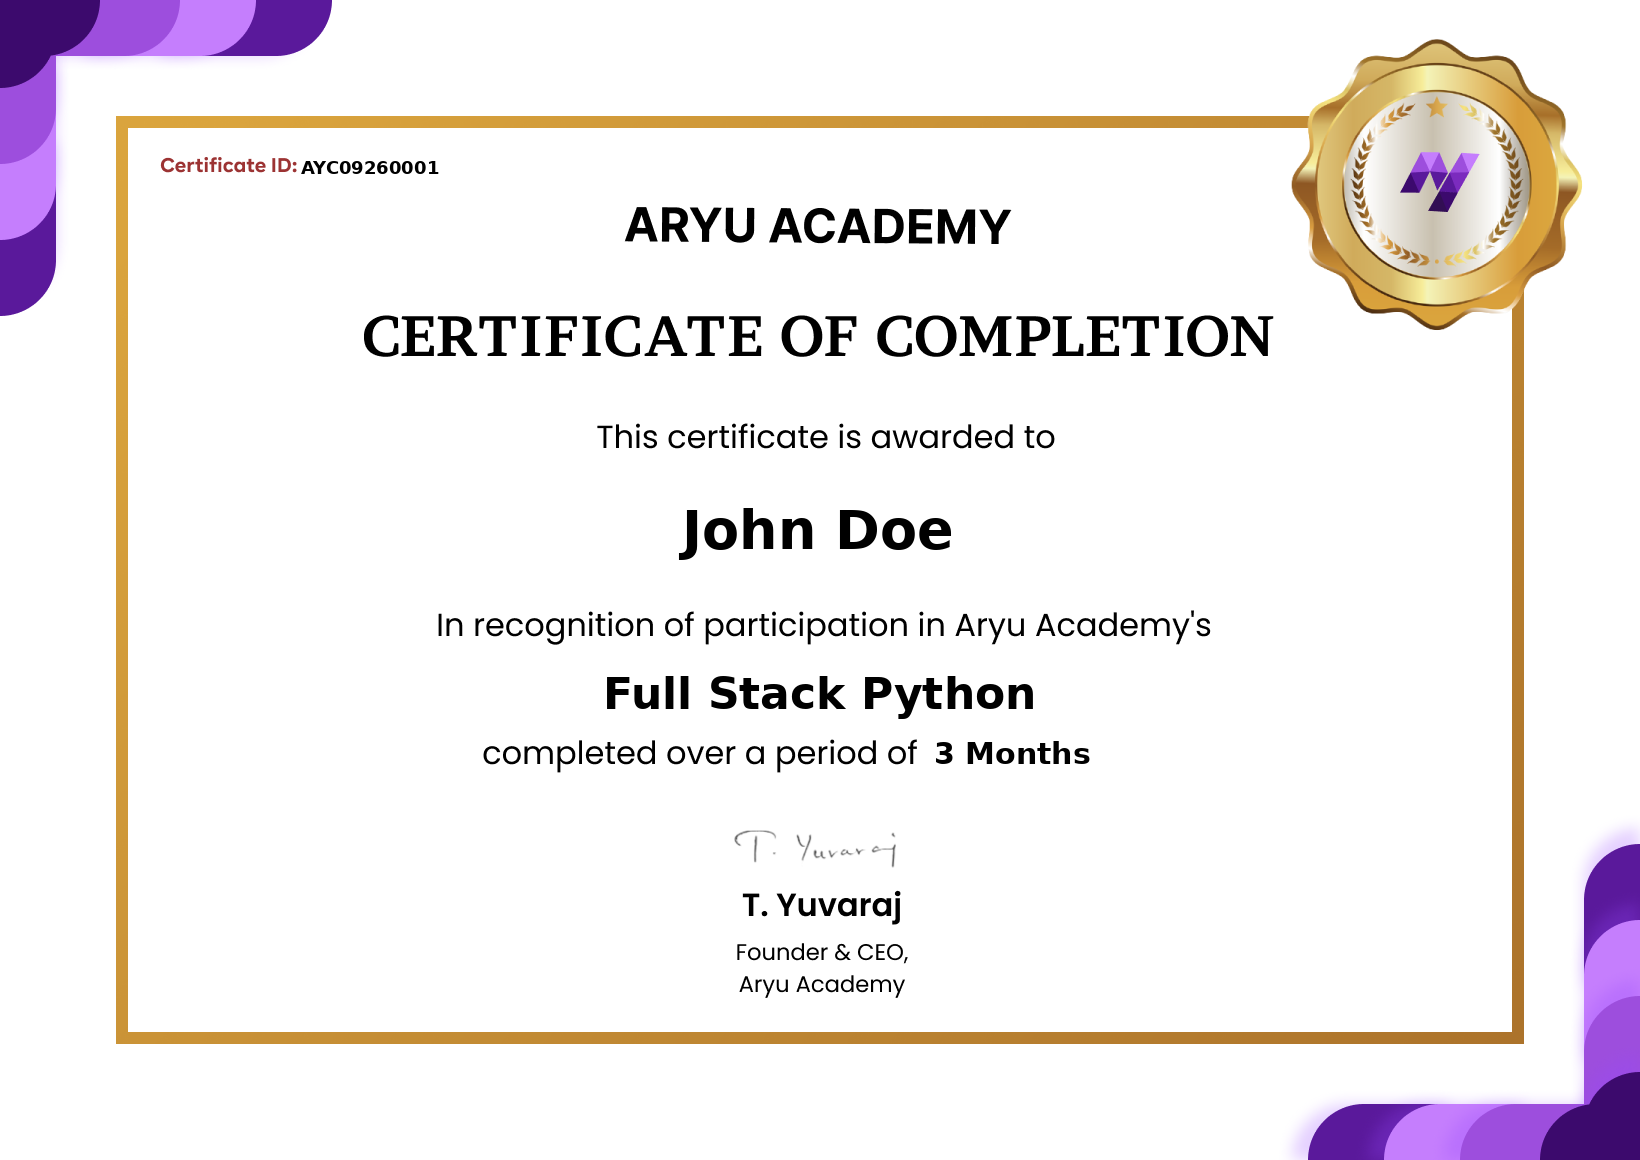
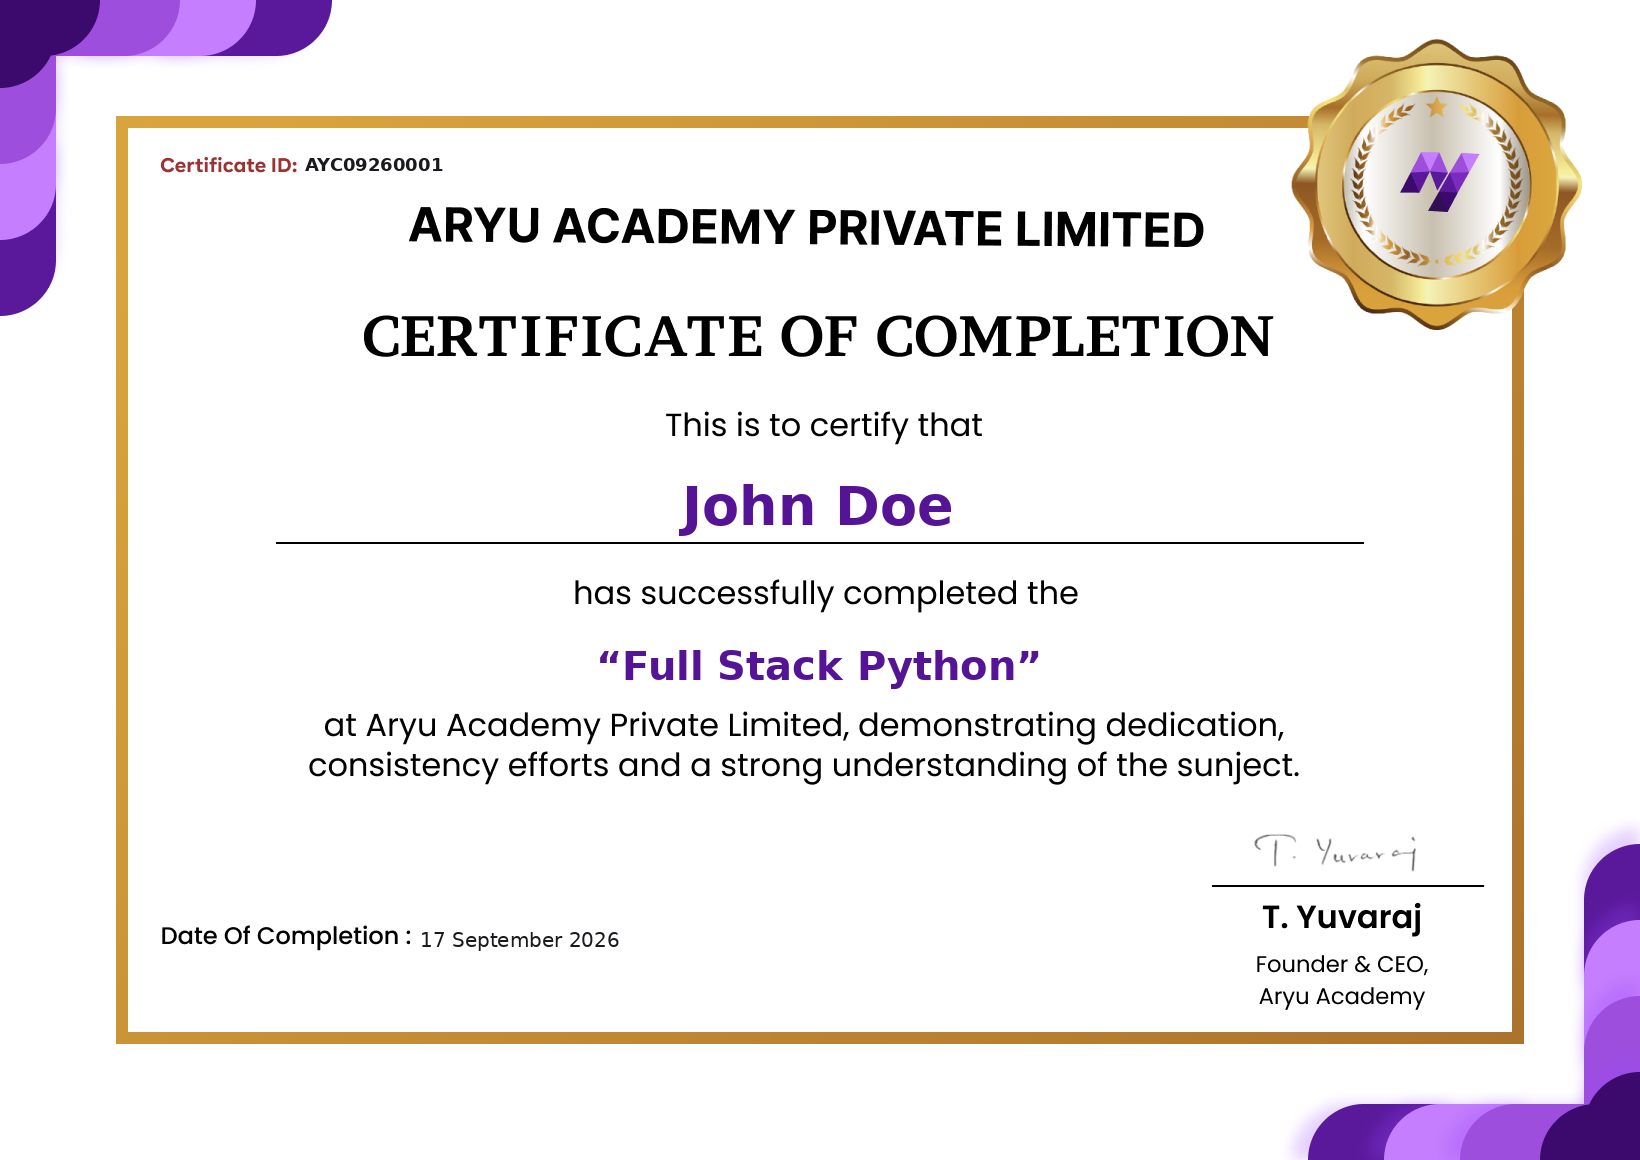
updated

diff --git a/Aryu/templates/emails/certificate_email.html b/Aryu/templates/emails/certificate_email.html
@@ -3,7 +3,7 @@
 <head>
     <meta charset="utf-8">
     <meta name="viewport" content="width=device-width, initial-scale=1.0">
-    <title>Certificate of Completion</title>
+    <title>Certificate of Course Completion</title>
     <style>
         body { font-family: 'Helvetica Neue', Helvetica, Arial, sans-serif; background-color: #f4f6f9; margin: 0; padding: 0; color: #333333; }
         .container { max-width: 600px; margin: 40px auto; background: #ffffff; border-radius: 8px; overflow: hidden; box-shadow: 0 4px 15px rgba(0,0,0,0.08); }
@@ -23,47 +23,45 @@
 <body>
     <div class="container">
         <div class="header">
-            <h1>Certificate of Completion</h1>
-            <p>Aryu Academy</p>
+            <h1>Certificate of Course Completion</h1>
+            <p>Aryu Academy Private Limited</p>
         </div>
         <div class="content">
-            <p>Dear <strong>{{ student_name }}</strong>,</p>
+            <p>Dear <strong style="color: #551496;">{{ student_name }}</strong>,</p>
             <p>Congratulations! We are pleased to award you this certificate in recognition of your successful completion of the course.</p>
             
             <div class="cert-badge">
-                <span>🎓 {{ course_name }}</span>
+                <span style="color: #551496; border-color: #d8b4fe; background-color: #faf5ff;">🎓 {{ course_name }}</span>
             </div>
 
             <div class="details-box">
                 <h3 style="margin-top: 0; color: #1e3c72; font-size: 16px;">Certificate Details</h3>
                 <p><strong>Certificate No:</strong> {{ certificate_number }}</p>
-                <p><strong>Course:</strong> {{ course_name }}</p>
+                <p><strong>Course:</strong> <span style="color: #551496; font-weight: 600;">{{ course_name }}</span></p>
                 {% if course_duration %}
                 <p><strong>Duration:</strong> {{ course_duration }}</p>
                 {% endif %}
                 {% if issued_date %}
-                <p><strong>Issued Date:</strong> {{ issued_date }}</p>
+                <p><strong>Date of Completion:</strong> {{ issued_date }}</p>
                 {% endif %}
-                {% if organization_name %}
-                <p><strong>Issued By:</strong> {{ organization_name }}</p>
-                {% endif %}
+                <p><strong>Issued By:</strong> {{ organization_name|default:"Aryu Academy Private Limited" }}</p>
                 {% if notes %}
                 <p><strong>Notes:</strong> {{ notes }}</p>
                 {% endif %}
             </div>
 
             <div class="attachment-note">
-                📄 <strong>Attached:</strong> Your official Certificate of Completion is attached to this email as a PDF document.
+                📄 <strong>Attached:</strong> Your official Certificate of Course Completion is attached to this email as a PDF document.
             </div>
 
             <p style="margin-top: 25px;">We wish you the very best in your future endeavors!</p>
 
             <p>Warm regards,<br>
-            <strong>Aryu Academy Team</strong><br>
+            <strong>Aryu Academy Private Limited</strong><br>
             <a href="https://portal.aryuacademy.com" style="color: #2a5298; text-decoration: none;">portal.aryuacademy.com</a></p>
         </div>
         <div class="footer">
-            <p>&copy; 2026 Aryu Academy. All rights reserved.</p>
+            <p>&copy; 2026 Aryu Academy Private Limited. All rights reserved.</p>
         </div>
     </div>
 </body>

diff --git a/Aryu/aryuapp/certificate_filler.py b/Aryu/aryuapp/certificate_filler.py
@@ -62,7 +62,13 @@ def fit_font(draw, text, font_path, max_width, start_size):
 
 def generate_certificate_image_and_save(certificate):
     template_candidates = [
+        Path(settings.MEDIA_ROOT) / "certificates" / "course_completion_certificate_new.png",
+        Path(settings.MEDIA_ROOT) / "certificates" / "course_completion_certificate.png",
         Path(settings.MEDIA_ROOT) / "certificates" / "aryu-certificate.png",
+        Path(settings.MEDIA_ROOT) / "certificates" / "AK20.png",
+        Path(settings.MEDIA_ROOT) / "certificates" / "AK2.png",
+        Path(settings.MEDIA_ROOT) / "certificates" / "Ak2.png",
+        Path(settings.MEDIA_ROOT) / "certificates" / "4016369-ai.png",
     ]
 
     template_path = None
@@ -84,36 +90,70 @@ def generate_certificate_image_and_save(certificate):
 
     draw = ImageDraw.Draw(img)
     img_width, img_height = img.size
-    font_path = "/usr/share/fonts/truetype/dejavu/DejaVuSans-Bold.ttf"
 
-    name = (certificate.student_name or "").title()
-    course = certificate.course_name or ""
-    duration = certificate.course_duration or ""
-    issued_date_str = certificate.issued_date.strftime("%d-%m-%Y") if certificate.issued_date else ""
+    font_bold_candidates = [
+        "/usr/share/fonts/truetype/dejavu/DejaVuSans-Bold.ttf",
+        "/usr/share/fonts/truetype/liberation/LiberationSans-Bold.ttf",
+        "C:/Windows/Fonts/arialbd.ttf",
+    ]
+    font_regular_candidates = [
+        "/usr/share/fonts/truetype/dejavu/DejaVuSans.ttf",
+        "/usr/share/fonts/truetype/liberation/LiberationSans-Regular.ttf",
+        "C:/Windows/Fonts/arial.ttf",
+    ]
 
-    name_font = fit_font(draw, name, font_path, img_width * 0.45, 54)
-    course_font = fit_font(draw, course, font_path, img_width * 0.45, 44)
-    small_font = _get_font(font_path, 30)
-    large_font = _get_font(font_path, 18)
+    font_bold_path = next((f for f in font_bold_candidates if os.path.exists(f)), None)
+    font_regular_path = next((f for f in font_regular_candidates if os.path.exists(f)), None)
 
-    # Certificate Number
-    draw.text((int(img_width * 0.184), int(img_height * 0.136)),
-              cert_num, fill="black", font=large_font)
+    scale_x = img_width / 1640.0
+    scale_y = img_height / 1160.0
 
-    # Student Name
-    name_y = int(img_height * 0.43)
-    draw.text((center_x(draw, name, name_font, img_width), name_y), name, fill="black", font=name_font)
+    name = (certificate.student_name or "").strip()
+    course = (certificate.course_name or "").strip()
+    if course and not (course.startswith("“") or course.startswith('"') or course.startswith("'")):
+        course = f"“{course}”"
 
-    # Course Name
-    course_y = name_y + 170
-    draw.text((center_x(draw, course, course_font, img_width), course_y),
-              course, fill="black", font=course_font)
+    if getattr(certificate, 'issued_date', None):
+        try:
+            issued_date_str = f"{certificate.issued_date.day} {certificate.issued_date.strftime('%B %Y')}"
+        except Exception:
+            issued_date_str = str(certificate.issued_date)
+    else:
+        issued_date_str = ""
 
-    # Duration / Date
-    date_y = 0.635
-    text_to_draw = duration or issued_date_str
-    draw.text((int(img_width * 0.570), int(img_height * date_y)),
-              text_to_draw, fill="black", font=small_font)
+    dark_color = (25, 25, 30)
+    purple_color = (85, 20, 150)
+
+    # 1. Certificate ID (e.g. AA/2026/00125)
+    id_font_size = max(14, int(18 * scale_y))
+    id_font = _get_font(font_bold_path, id_font_size)
+    draw.text((int(305 * scale_x), int(154 * scale_y)), cert_num, fill=dark_color, font=id_font)
+
+    # 2. Student Name (e.g. Aruna V) - centered above line at y=543, purple bold
+    name_font_size = max(30, int(54 * scale_y))
+    name_font = fit_font(draw, name, font_bold_path, img_width * 0.65, name_font_size)
+    try:
+        ascent, descent = name_font.getmetrics()
+        name_y = int(538 * scale_y) - (ascent + descent)
+    except Exception:
+        name_y = int(475 * scale_y)
+    draw.text((center_x(draw, name, name_font, img_width), name_y), name, fill=purple_color, font=name_font)
+
+    # 3. Course Name (e.g. “AI Frontend”) - centered between y=612 and y=711, purple bold
+    course_font_size = max(24, int(40 * scale_y))
+    course_font = fit_font(draw, course, font_bold_path, img_width * 0.65, course_font_size)
+    try:
+        c_bbox = draw.textbbox((0, 0), course, font=course_font)
+        c_h = c_bbox[3] - c_bbox[1]
+        course_y = int(661 * scale_y) - c_h // 2
+    except Exception:
+        course_y = int(640 * scale_y)
+    draw.text((center_x(draw, course, course_font, img_width), course_y), course, fill=purple_color, font=course_font)
+
+    # 4. Date of Completion (e.g. 17 September 2026)
+    date_font_size = max(14, int(20 * scale_y))
+    date_font = _get_font(font_regular_path, date_font_size)
+    draw.text((int(420 * scale_x), int(928 * scale_y)), issued_date_str, fill=dark_color, font=date_font)
 
     img.save(output_path)
     return output_path

diff --git a/Aryu/aryuapp/views.py b/Aryu/aryuapp/views.py
@@ -6593,6 +6593,19 @@ class CertificateViewSet(viewsets.ModelViewSet):
 
         certificate = serializer.save()
 
+        # If issued_date was provided in request data, update it
+        req_issued_date = request.data.get("issued_date")
+        if req_issued_date:
+            try:
+                from datetime import datetime
+                if isinstance(req_issued_date, str):
+                    certificate.issued_date = datetime.strptime(req_issued_date, "%Y-%m-%d").date()
+                else:
+                    certificate.issued_date = req_issued_date
+                certificate.save(update_fields=["issued_date"])
+            except Exception as d_err:
+                logger.warning("Could not set custom issued_date: %s", d_err)
+
         # 1. Generate certificate PDF
         try:
             from .certificate_filler import generate_and_send_certificate_pdf
@@ -7251,7 +7264,7 @@ def send_certificate_email(student_email, certificate):
         )
         return False
 
-    subject = f"Your Certificate for {certificate.course_name}"
+    subject = f"Certificate of Course Completion - {certificate.course_name}"
     from_email = settings.ARYU_ACADEMY_FROM_EMAIL
 
     # Render a HTML template with certificate info
@@ -7261,7 +7274,7 @@ def send_certificate_email(student_email, certificate):
         'certificate_number': certificate.certificate_number,
         'issued_date': certificate.issued_date,
         'course_duration': certificate.course_duration,
-        'organization_name': certificate.organization_name,
+        'organization_name': certificate.organization_name or 'Aryu Academy Private Limited',
         'notes': certificate.notes,
     }
     
@@ -7269,13 +7282,13 @@ def send_certificate_email(student_email, certificate):
         html_message = render_to_string('emails/certificate_email.html', context)
     except Exception as t_err:
         logger.warning("Failed to render 'emails/certificate_email.html': %s", t_err)
-        html_message = f"<p>Dear {certificate.student_name},</p><p>Your certificate for {certificate.course_name} (Certificate No: {certificate.certificate_number}) is attached.</p>"
+        html_message = f"<p>Dear {certificate.student_name},</p><p>Your Certificate of Course Completion for {certificate.course_name} (Certificate No: {certificate.certificate_number}) is attached.</p>"
 
     text_content = (
         f"Dear {certificate.student_name},\n\n"
         f"Congratulations on completing {certificate.course_name}!\n"
-        f"Your certificate (Certificate No: {certificate.certificate_number}) is attached.\n\n"
-        f"Aryu Academy Team"
+        f"Your Certificate of Course Completion (Certificate No: {certificate.certificate_number}) is attached.\n\n"
+        f"Aryu Academy Private Limited"
     )
 
     email = EmailMultiAlternatives(

diff --git a/Aryu/aryuapp/models.py b/Aryu/aryuapp/models.py
@@ -820,9 +820,21 @@ class Certificate(models.Model):
         now = get_ist_now()
         month_year = now.strftime("%m%y")
         like_pattern = f"{prefix}{month_year}"
-        existing = Certificate.objects.filter(certificate_number__startswith=like_pattern).count()
-        serial = existing + 1
-        return f"{prefix}{month_year}{serial:04d}"
+        last_cert = Certificate.objects.filter(
+            certificate_number__startswith=like_pattern
+        ).order_by('-certificate_number').first()
+
+        serial = 1
+        if last_cert and len(last_cert.certificate_number) >= len(like_pattern) + 4:
+            try:
+                serial = int(last_cert.certificate_number[len(like_pattern):]) + 1
+            except ValueError:
+                serial = Certificate.objects.filter(certificate_number__startswith=like_pattern).count() + 1
+
+        while Certificate.objects.filter(certificate_number=f"{like_pattern}{serial:04d}").exists():
+            serial += 1
+
+        return f"{like_pattern}{serial:04d}"
 
     def save(self, *args, **kwargs):
         if not self.certificate_number:
